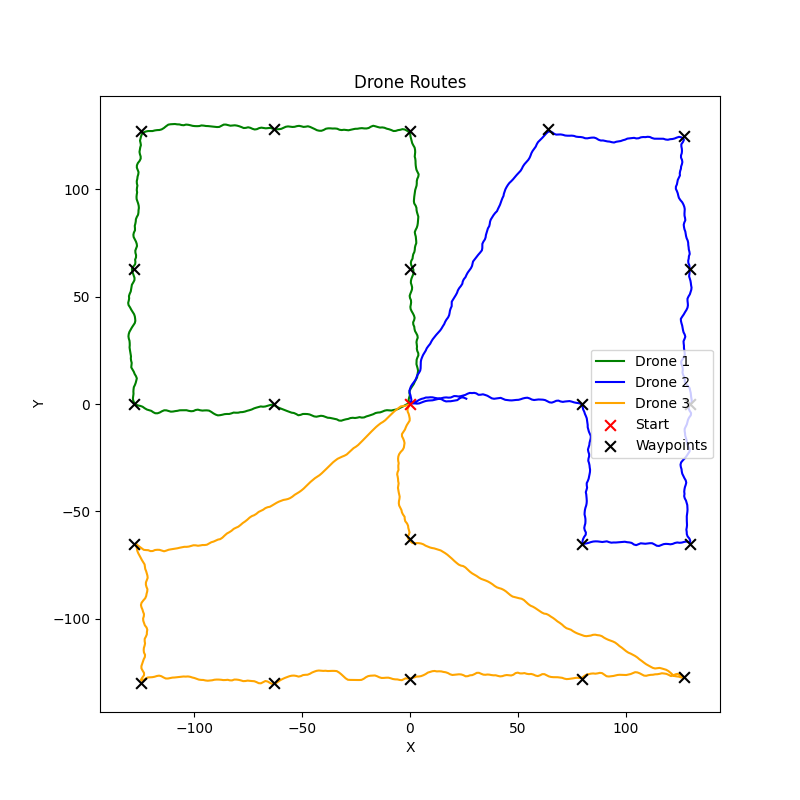
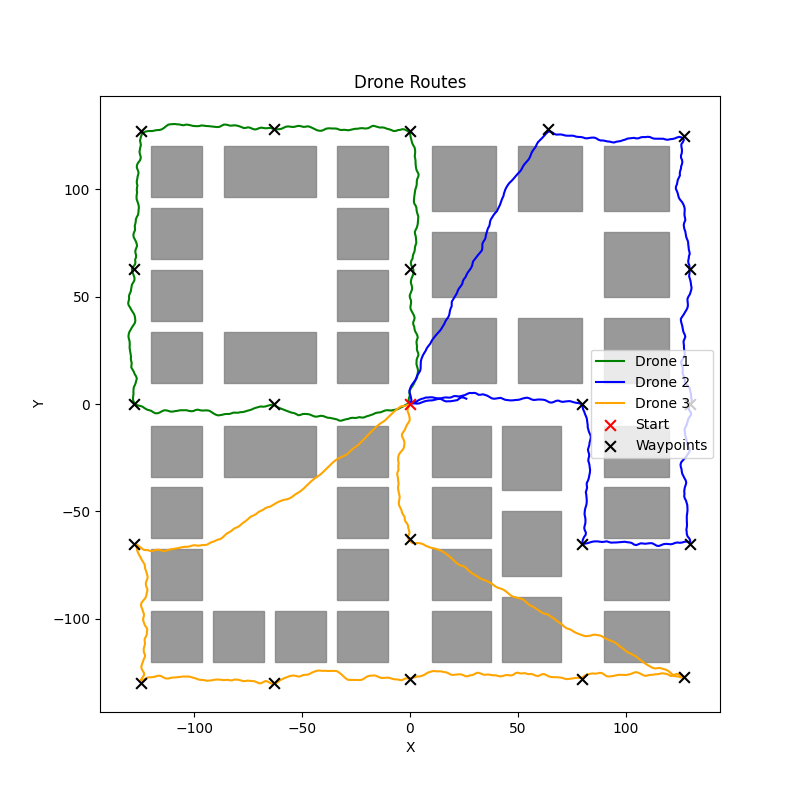
update neighbourhood obstacles

diff --git a/MultiPathPlanning/coordinates.py b/MultiPathPlanning/coordinates.py
@@ -64,7 +64,59 @@ waypoints["neighbourhood"] = [
             ]
 
 obstacles["neighbourhood"] = [
-    
+    np.array([90, -120, 0, 120, -96.5, 15]), # Obs 1
+    np.array([90, -91.25, 0, 120, -67.5, 15]), # Obs 2
+    np.array([90, -62.5, 0, 120, -38.75, 15]), # Obs 3
+    np.array([90, -33.75, 0, 120, -10, 15]), # Obs 4
+
+    np.array([42.5, -120, 0, 70, -90, 15]), # Obs 5
+    np.array([42.5, -80, 0, 70, -50, 15]), # Obs 6
+    np.array([42.5, -40, 0, 70, -10, 15]), # Obs 7
+
+    np.array([10, -120, 0, 37.5, -96.5, 15]), # Obs 8
+    np.array([10, -91.25, 0, 37.5, -67.5, 15]), # Obs 9
+    np.array([10, -62.5, 0, 37.5, -38.75, 15]), # Obs 10
+    np.array([10, -33.75, 0, 37.5, -10, 15]), # Obs 11
+
+    np.array([-33.75, -120, 0, -10, -96.5, 15]), # Obs 12
+    np.array([-33.75, -91.25, 0, -10, -67.5, 15]), # Obs 13
+    np.array([-33.75, -62.5, 0, -10, -38.75, 15]), # Obs 14
+    np.array([-33.75, -33.75, 0, -10, -10, 15]), # Obs 15
+
+    np.array([-120, -120, 0, -96.5, -96.5, 15]), # Obs 16
+    np.array([-120, -91.25, 0, -96.5, -67.5, 15]), # Obs 17
+    np.array([-120, -62.5, 0, -96.5, -38.75, 15]), # Obs 18
+    np.array([-120, -33.75, 0, -96.5, -10, 15]), # Obs 19
+
+    np.array([-62.5, -120, 0, -38.75, -96.5, 15]), # Obs 20
+    np.array([-91.25, -120, 0, -67.5, -96.5, 15]), # Obs 21
+
+    np.array([-86.5, -33.75, 0, -43.75, -10, 15]), # Obs 22
+
+    np.array([-33.75, 120, 0, -10, 96.5, 15]), # Obs 26
+    np.array([-33.75, 91.25, 0, -10, 67.5, 15]), # Obs 25
+    np.array([-33.75, 62.5, 0, -10, 38.75, 15]), # Obs 24
+    np.array([-33.75, 33.75, 0, -10, 10, 15]), # Obs 23
+
+    np.array([-120, 120, 0, -96.5, 96.5, 15]), # Obs 30
+    np.array([-120, 91.25, 0, -96.5, 67.5, 15]), # Obs 29
+    np.array([-120, 62.5, 0, -96.5, 38.75, 15]), # Obs 28
+    np.array([-120, 33.75, 0, -96.5, 10, 15]), # Obs 27
+
+    np.array([-86.5, 120, 0, -43.75, 96.5, 15]), # Obs 32
+
+    np.array([-86.5, 33.75, 0, -43.75, 10, 15]), # Obs 31
+
+    np.array([90, 120, 0, 120, 90, 15]), # Obs 33
+    np.array([90, 80, 0, 120, 50, 15]), # Obs 34
+    np.array([90, 40, 0, 120, 10, 15]), # Obs 35
+
+    np.array([50, 120, 0, 80, 90, 15]), # Obs 36
+    np.array([50, 40, 0, 80, 10, 15]), # Obs 37
+
+    np.array([10, 120, 0, 40, 90, 15]), # Obs 38
+    np.array([10, 80, 0, 40, 50, 15]), # Obs 39
+    np.array([10, 40, 0, 40, 10, 15]), # Obs 40
 ]
 
 specific_paths["neighbourhood"] = [

diff --git a/replot_routes.py b/replot_routes.py
@@ -6,11 +6,11 @@ from MultiTSP import *
 
 import os
 
-waypoint_type = "blocks"
+waypoint_type = "neighbourhood"
 no_drones = 3
-mtsp_algo = "hill"
+mtsp_algo = "tabu"
 rl_algo = "ppo"
-action_type = "disc"
+action_type = "cont"
 env_variant = "airsim"
 
 results_root_path = os.path.join(os.getcwd(), "results", mtsp_algo, f"{no_drones}_drones", rl_algo, action_type, env_variant)
